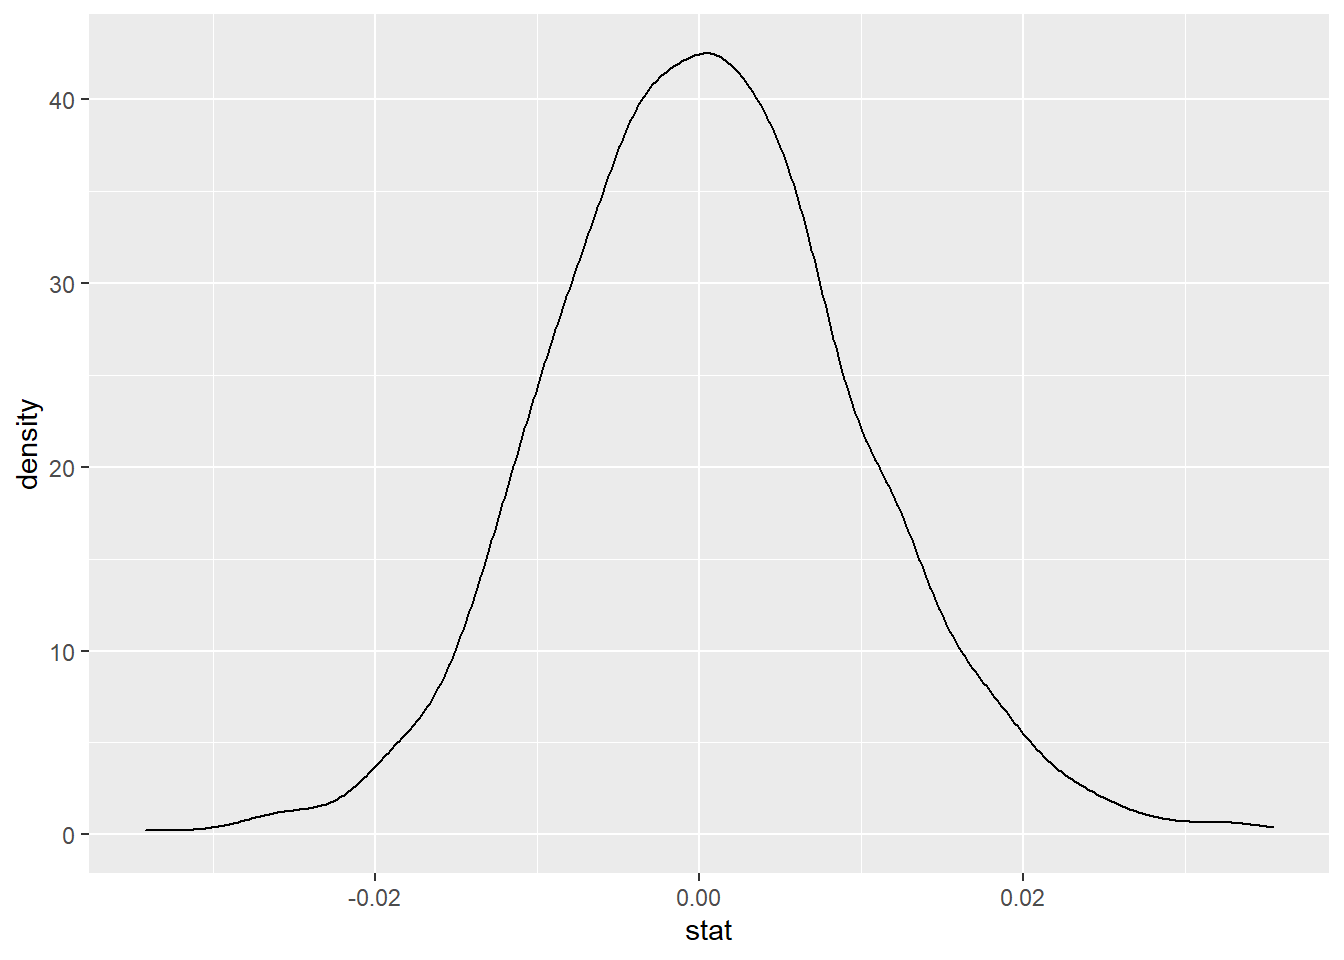
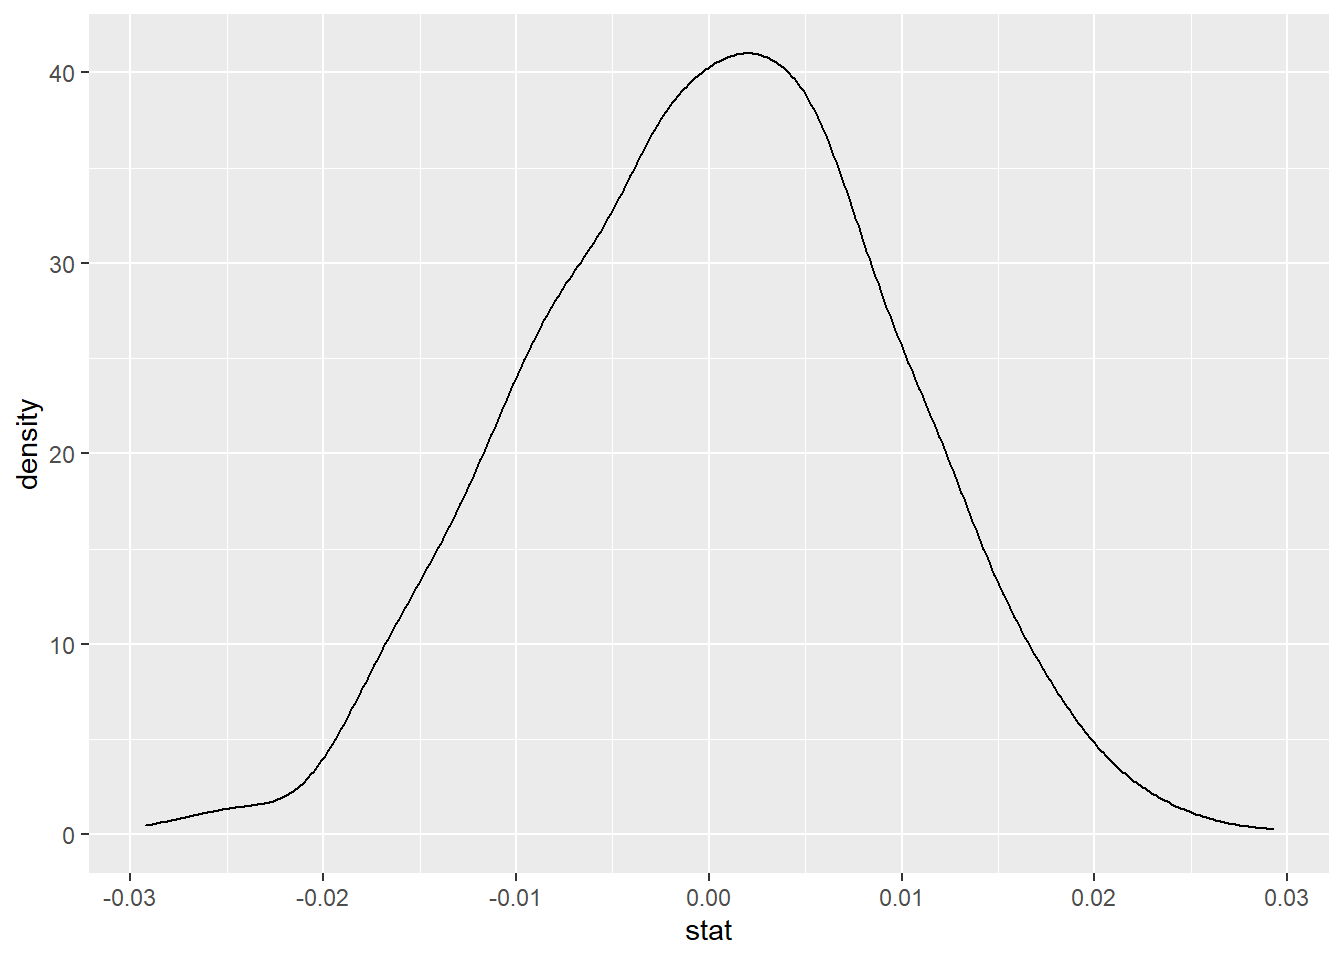
ss

diff --git a/content/post/R/2021-10-13-foundations-of-inference/index.en.html b/content/post/R/2021-10-13-foundations-of-inference/index.en.html
@@ -144,14 +144,14 @@ homeown_perm</code></pre>
 ## # Groups:   replicate [10]
 ##    HomeOwn Gender replicate
 ##    &lt;fct&gt;   &lt;fct&gt;      &lt;int&gt;
-##  1 Rent    male           1
+##  1 Own     male           1
 ##  2 Own     male           1
 ##  3 Own     male           1
-##  4 Own     male           1
+##  4 Rent    male           1
 ##  5 Own     female         1
-##  6 Own     male           1
-##  7 Own     male           1
-##  8 Own     female         1
+##  6 Rent    male           1
+##  7 Rent    male           1
+##  8 Rent    female         1
 ##  9 Own     female         1
 ## 10 Own     female         1
 ## # ... with 97,110 more rows</code></pre>
@@ -176,18 +176,18 @@ homeown_perm &lt;- homes %&gt;%
 # Print results to console
 homeown_perm</code></pre>
 <pre><code>## # A tibble: 100 x 2
-##    replicate        stat
-##        &lt;int&gt;       &lt;dbl&gt;
-##  1         1 -0.0124    
-##  2         2  0.0115    
-##  3         3  0.0136    
-##  4         4 -0.00783   
-##  5         5 -0.00536   
-##  6         6  0.00206   
-##  7         7  0.00288   
-##  8         8 -0.00000297
-##  9         9 -0.00453   
-## 10        10 -0.00124   
+##    replicate      stat
+##        &lt;int&gt;     &lt;dbl&gt;
+##  1         1  0.00164 
+##  2         2  0.00247 
+##  3         3  0.00659 
+##  4         4 -0.00165 
+##  5         5  0.00329 
+##  6         6 -0.00742 
+##  7         7 -0.00247 
+##  8         8  0.000821
+##  9         9 -0.000415
+## 10        10  0.00123 
 ## # ... with 90 more rows</code></pre>
 <pre class="r"><code># Perform 100 permutations
 homeown_perm &lt;- homes %&gt;%
@@ -259,20 +259,133 @@ homeown_perm1 %&gt;%
 <h2>2- Completing a randomization test: gender discrimination</h2>
 <p>In this chapter, you will gain the tools and knowledge to complete a full hypothesis test. That is, given a dataset, you will know whether or not is appropriate to reject the null hypothesis in favor of the research claim of interest.</p>
 </div>
-<div id="section" class="section level2">
-<h2>2-2-</h2>
+<div id="summarizing-gender-discrimination" class="section level2">
+<h2>2-3 Summarizing gender discrimination</h2>
+<p>As the first step of any analysis, you should look at and summarize the data. Categorical variables are often summarized using proportions, and it is always important to understand the denominator of the proportion.</p>
+<p>Do you want the proportion of women who were promoted or the proportion of promoted individuals who were women? Here, you want the first of these, so in your R code it’s necessary to group_by() the sex variable.</p>
+<pre class="r"><code>disc</code></pre>
+<pre><code>##         promote    sex
+## 1      promoted   male
+## 2      promoted   male
+## 3      promoted   male
+## 4      promoted   male
+## 5      promoted   male
+## 6      promoted   male
+## 7      promoted   male
+## 8      promoted   male
+## 9      promoted   male
+## 10     promoted   male
+## 11     promoted   male
+## 12     promoted   male
+## 13     promoted   male
+## 14     promoted   male
+## 15     promoted   male
+## 16     promoted   male
+## 17     promoted   male
+## 18     promoted   male
+## 19     promoted female
+## 20     promoted female
+## 21     promoted female
+## 22     promoted female
+## 23     promoted female
+## 24     promoted female
+## 25     promoted female
+## 26     promoted female
+## 27     promoted female
+## 28     promoted female
+## 29     promoted female
+## 30     promoted female
+## 31     promoted female
+## 32     promoted female
+## 33     promoted female
+## 34     promoted female
+## 35     promoted female
+## 36 not_promoted   male
+## 37 not_promoted   male
+## 38 not_promoted   male
+## 39 not_promoted   male
+## 40 not_promoted   male
+## 41 not_promoted   male
+## 42 not_promoted female
+## 43 not_promoted female
+## 44 not_promoted female
+## 45 not_promoted female
+## 46 not_promoted female
+## 47 not_promoted female
+## 48 not_promoted female</code></pre>
+<pre class="r"><code># Create a contingency table summarizing the data
+disc %&gt;%
+  # Count the rows by sex, promote
+  count(sex, promote)</code></pre>
+<pre><code>##      sex      promote  n
+## 1 female not_promoted  7
+## 2 female     promoted 17
+## 3   male not_promoted  6
+## 4   male     promoted 18</code></pre>
+<pre class="r"><code># Find proportion of each sex who were promoted
+disc %&gt;%
+  # Group by sex
+  group_by(sex) %&gt;%
+  # Calculate proportion promoted summary stat
+  summarise(promoted_prop=mean(promote==&quot;promoted&quot;))</code></pre>
+<pre><code>## # A tibble: 2 x 2
+##   sex    promoted_prop
+##   &lt;fct&gt;          &lt;dbl&gt;
+## 1 female         0.708
+## 2 male           0.75</code></pre>
+</div>
+<div id="step-by-step-through-the-permutation" class="section level2">
+<h2>2-4 Step-by-step through the permutation</h2>
+<p>To help you understand the code used to create the randomization distribution, this exercise will walk you through the steps of the infer framework. In particular, you’ll see how differences in the generated replicates affect the calculated statistics.</p>
+<p>After running the infer steps, be sure to notice that the numbers are slightly different for each replicate.</p>
+<pre class="r"><code># Replicate the entire data frame, permuting the promote variable
+disc_perm &lt;- disc %&gt;%
+  specify(promote ~ sex, success = &quot;promoted&quot;) %&gt;%
+  hypothesize(null = &quot;independence&quot;) %&gt;%
+  generate(reps = 5, type = &quot;permute&quot;)
+
+disc_perm %&gt;%
+  # Group by replicate
+  group_by(replicate) %&gt;%
+  # Count per group
+  count(promote)</code></pre>
+<pre><code>## # A tibble: 10 x 3
+## # Groups:   replicate [5]
+##    replicate promote          n
+##        &lt;int&gt; &lt;fct&gt;        &lt;int&gt;
+##  1         1 not_promoted    13
+##  2         1 promoted        35
+##  3         2 not_promoted    13
+##  4         2 promoted        35
+##  5         3 not_promoted    13
+##  6         3 promoted        35
+##  7         4 not_promoted    13
+##  8         4 promoted        35
+##  9         5 not_promoted    13
+## 10         5 promoted        35</code></pre>
+<pre class="r"><code>disc_perm %&gt;%
+  # Calculate difference in proportion, male then female
+  calculate(stat= &quot;diff in props&quot;, order= c(&quot;male&quot;, &quot;female&quot;))</code></pre>
+<pre><code>## # A tibble: 5 x 2
+##   replicate    stat
+##       &lt;int&gt;   &lt;dbl&gt;
+## 1         1 -0.125 
+## 2         2  0.208 
+## 3         3  0.125 
+## 4         4  0.0417
+## 5         5 -0.0417</code></pre>
 </div>
 <div id="hypothesis-testing-errors-opportunity-cost" class="section level2">
 <h2>3- Hypothesis testing errors: opportunity cost</h2>
 <p>You will continue learning about hypothesis testing with a new example and the same structure of randomization tests. In this chapter, however, the focus will be on different errors (type I and type II), how they are made, when one is worse than another, and how things like sample size and effect size impact the error rates.</p>
 </div>
-<div id="section-1" class="section level2">
+<div id="section" class="section level2">
 <h2>3-2-</h2>
 </div>
 <div id="confidence-intervals" class="section level2">
 <h2>4- Confidence intervals</h2>
 <p>As a complement to hypothesis testing, confidence intervals allow you to estimate a population parameter. Recall that your interest is always in some characteristic of the population, but you only have incomplete information to estimate the parameter using sample data. Here, the parameter is the true proportion of successes in a population. Bootstrapping is used to estimate the variability needed to form the confidence interval.</p>
 </div>
-<div id="section-2" class="section level2">
+<div id="section-1" class="section level2">
 <h2>4-2-</h2>
 </div>
